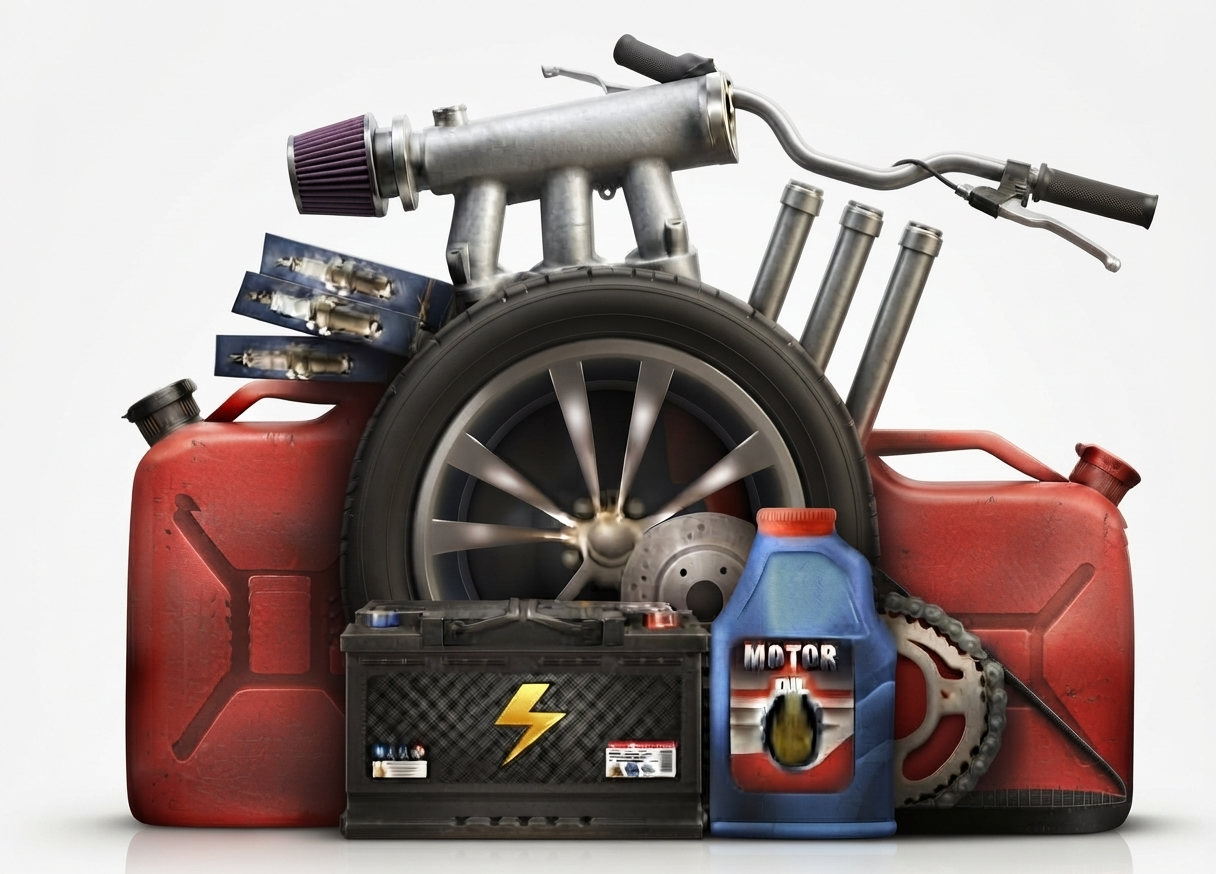
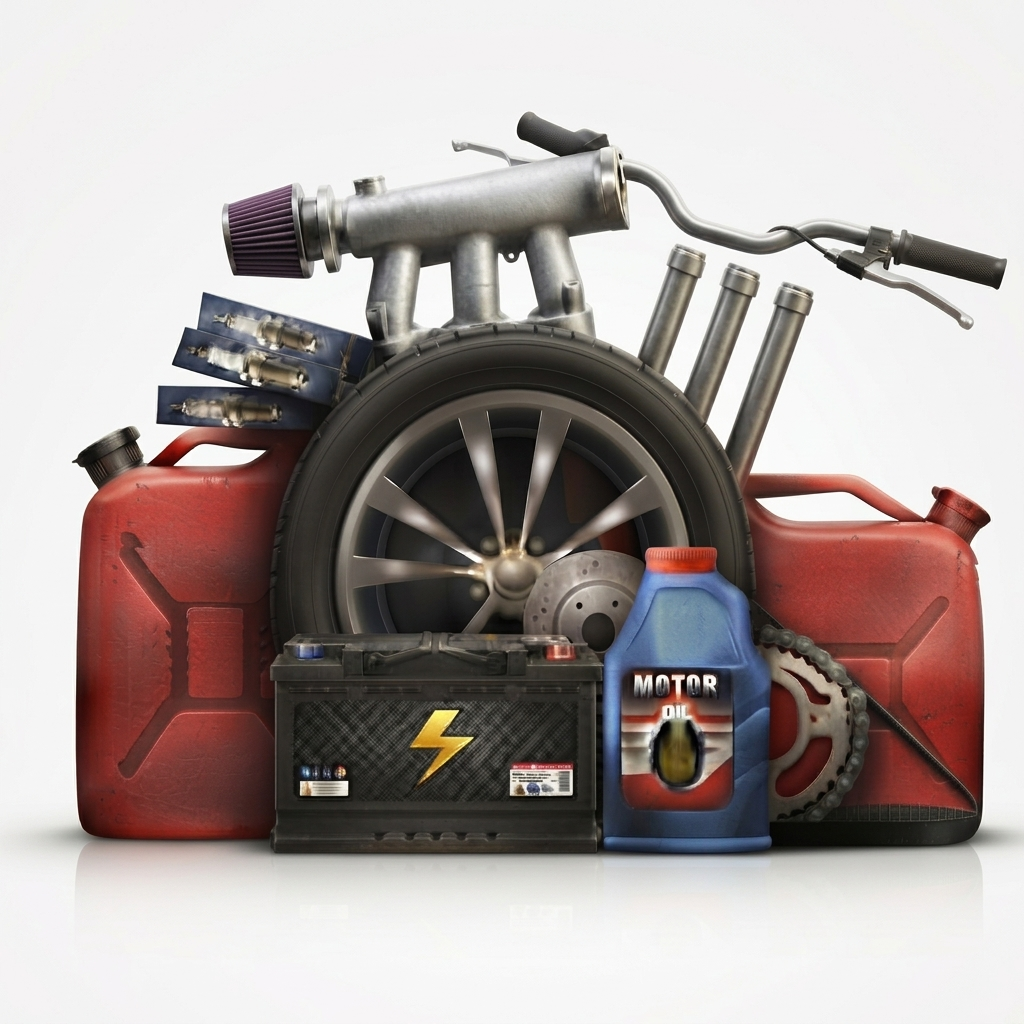
Fotos cuadradas y renombrar a Comida rápida

diff --git a/index.html b/index.html
@@ -241,16 +241,46 @@
 
 
 
-
+    .barra-botones {
+      display: flex;
+      justify-content: space-between;
+      align-items: center;
+      flex-wrap: wrap;
+      gap: 8px;
+      margin-bottom: 10px;
+    }
+    .botones-derecha {
+      display: flex;
+      gap: 6px;
+      margin-left: auto;
+    }
+    .barra-botones button {
+      background: transparent;
+      color: var(--texto);
+      border: 1px solid var(--borde);
+      font-size: 12px;
+      padding: 7px 9px;
+    }
+    .barra-botones.en-app {
+      justify-content: center;
+      margin: 30px 0 20px 0;
+      padding-top: 15px;
+      border-top: 1px solid var(--borde);
+    }
+    .barra-botones.en-app .botones-derecha {
+      margin-left: 0;
+    }
   </style>
 </head>
 <body>
 
-            <div class="header-superior">
-    <button type="button" id="boton-mostrar-login" onclick="mostrarLogin()" style="background: transparent; color: var(--texto); border: 1px solid var(--borde); position: absolute; top: 0; left: 0; font-size: 13px; padding: 8px 12px;">🍽 Restaurantes</button>
-    <div style="position: absolute; top: 0; right: 0; display: flex; gap: 8px;">
-      <button id="boton-idioma" onclick="cambiarIdioma()">🌐 English</button>
-      <button id="boton-tema" onclick="cambiarTema()">🌙 Modo oscuro</button>
+    <div class="header-superior">
+    <div class="barra-botones">
+      <button type="button" id="boton-mostrar-login" onclick="mostrarLogin()">🍽 Restaurantes</button>
+      <div class="botones-derecha">
+        <button id="boton-idioma" onclick="cambiarIdioma()">🌐 English</button>
+        <button id="boton-tema" onclick="cambiarTema()">🌙 Modo oscuro</button>
+      </div>
     </div>
     <img src="logo.png" alt="GoFood" style="display: block; margin: 0 auto; max-height: 250px;">
   </div>
@@ -363,7 +393,7 @@
     const GRUPOS = [
       { id: "alimentacion", img: "alimentacion.jpg", es: "Alimentación", en: "Groceries", categorias: ["Bodegas y Minimarkets", "Supermercados"] },
       { id: "licorerias", img: "licorerias.jpg", es: "Licorerías", en: "Liquor stores", categorias: ["Licorerías"] },
-      { id: "comida", img: "comida-express.jpg", es: "Comida exprés", en: "Fast food", subgrupos: [
+            { id: "comida", img: "comida-express.jpg", es: "Comida Rápida", en: "Fast food", subgrupos: [
         { id: "hamburguesas", img: "comida/hamburguesas.jpg", es: "Hamburguesas", en: "Burgers", categorias: ["Hamburguesas"] },
         { id: "pizzas", img: "comida/pizzas.jpg", es: "Pizzas", en: "Pizza", categorias: ["Pizzas"] },
         { id: "perros", img: "comida/perros-calientes.jpg", es: "Perros calientes", en: "Hot dogs", categorias: ["Perros Calientes"] },
@@ -745,7 +775,15 @@
       buscar();
     }
 
-    
+        // En la app (APK) la barra de botones va abajo; en la web va arriba.
+    // Para probarlo en el navegador, abrí la página con ?app=1 al final de la dirección.
+    const esApp = (window.Capacitor && window.Capacitor.isNativePlatform && window.Capacitor.isNativePlatform())
+      || window.location.search.includes("app=1");
+    if (esApp) {
+      const barra = document.querySelector(".barra-botones");
+      barra.classList.add("en-app");
+      document.body.appendChild(barra);
+    }
     restaurarBusqueda();
   </script>
 
